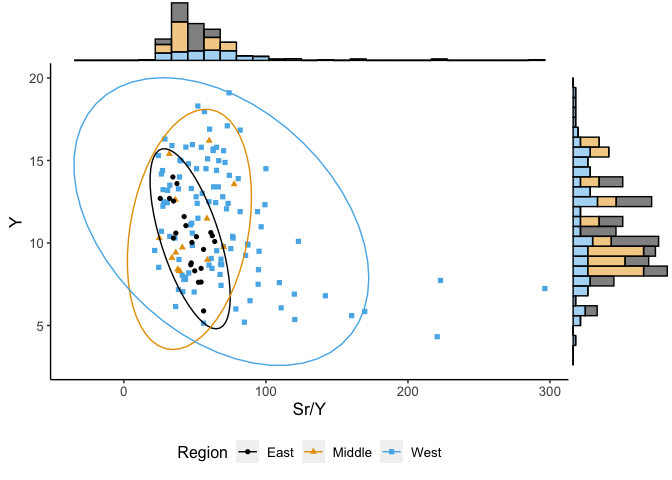
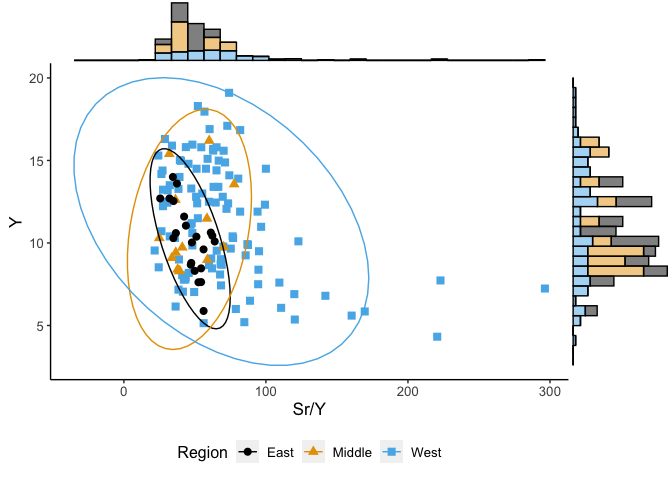
This is an update.

diff --git a/hw_7.md b/hw_7.md
@@ -18,18 +18,22 @@ ggplot(data = major, mapping = aes(x = Sr/Y, y = Y)) +
 
 ![](hw_7_files/figure-gfm/unnamed-chunk-1-1.png)<!-- -->
 
-This plot is a bad plot. First of all, its color includes red and green,
-which is very unfriendly to red-green color blindness (Wilke section
-19.3). The axis labels, axis tick labels, and legend labels are all
-incredibly small that we can barely see them (Wilke section 24). Gray
-background and white grid are unattractive and do not help to interpret
-the actual data (Wilke section 23.2). We should also deal with outliers
-and limit the number of coordinate axes to a reasonable range. We are
-eager to analyze the distribution trend of geochemical characteristics
-of rocks in different regions, but we need to choose a reasonable
-statistical trend method (Wilke section 14.2). This smooth line is not
-good for relatively scattered points, which also affects our observation
-of the data.
+This plot is a bad plot. The purpose of this plot is to compare the
+relationship between Sr / Y and Y elements of some igneous rock in the
+East, Middle and West of Northeast China.
+
+First of all, its color includes red and green, which is very unfriendly
+to red-green color blindness (Wilke section 19.3). The axis labels, axis
+tick labels, and legend labels are all incredibly small that we can
+barely see them (Wilke section 24). Gray background and white grid are
+unattractive and do not help to interpret the actual data (Wilke section
+23.2). We should also deal with outliers and limit the number of
+coordinate axes to a reasonable range. In addition, we are eager to
+analyze the distribution trend of geochemical characteristics of rocks
+in different regions, but we need to choose a reasonable way to
+determine the trend (Wilke section 14.2). This smooth line is not good
+for relatively scattered points, which also affects our observation of
+the data.
 
 ``` r
 library(tidyverse)
@@ -37,7 +41,7 @@ library(ggExtra)
 major <- read_csv("Major_element.csv") %>%
   filter(Y < 20)
  p <- ggplot(data = major, mapping = aes(x = Sr/Y, y = Y)) + 
-  geom_point(mapping = aes(color = Region, shape=Region)) +
+  geom_point(mapping = aes(color = Region, shape=Region), size=2.5) +
   scale_color_manual(values=c("#000000", "#E69F00", "#56B4E9"))+
   stat_ellipse(aes(x=Sr/Y, y=Y,color=Region),type = "norm")+
    theme(axis.text.x = element_text( size=10),
@@ -58,4 +62,10 @@ major <- read_csv("Major_element.csv") %>%
 
 ![](hw_7_files/figure-gfm/unnamed-chunk-2-1.png)<!-- -->
 
-This is a good version of the bad plot.
+This is a good version of the bad plot. First, we change the color of
+the points, and each color corresponds to a shape to make them more
+friendly to red and green color blindness. In addition, we resized the
+labels and points to make them easier to read. We removed an obvious
+outlier, as well as a gray background and a white grid. We decided to
+use ellipse and histogram to display the distribution range of each
+group of points, and the effect is more intuitive.
